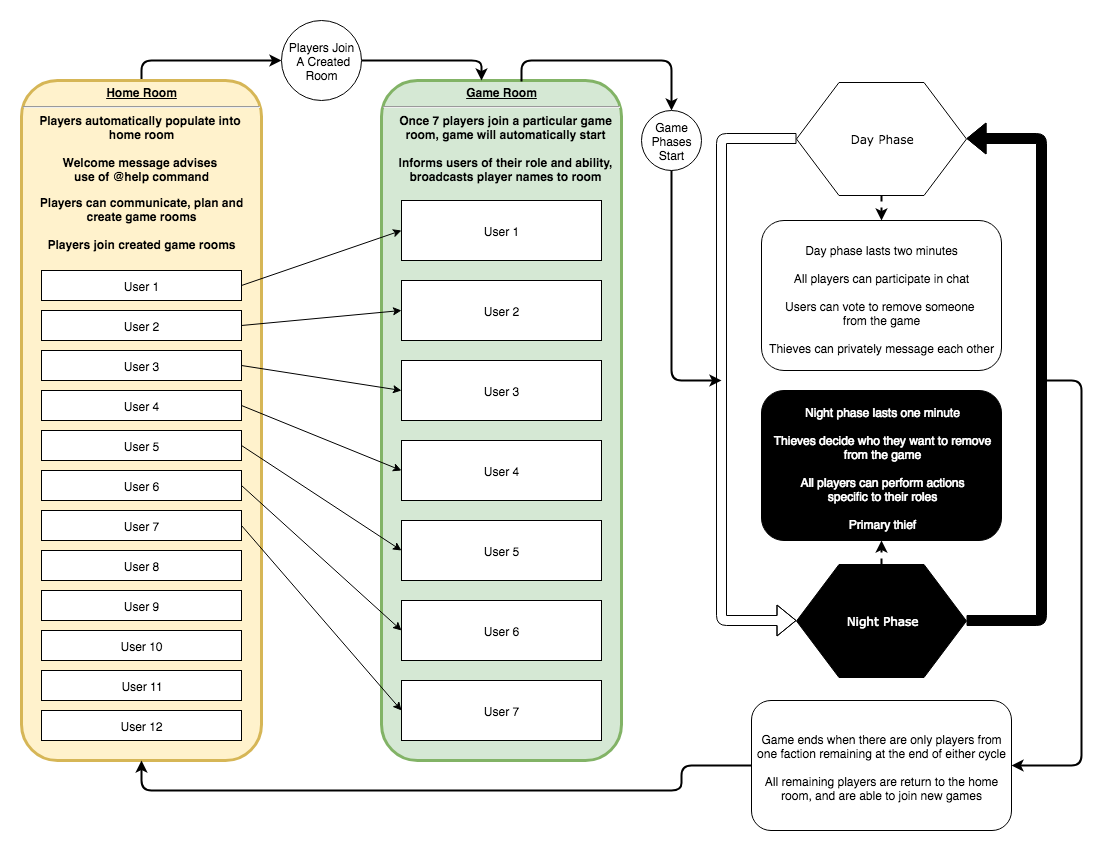
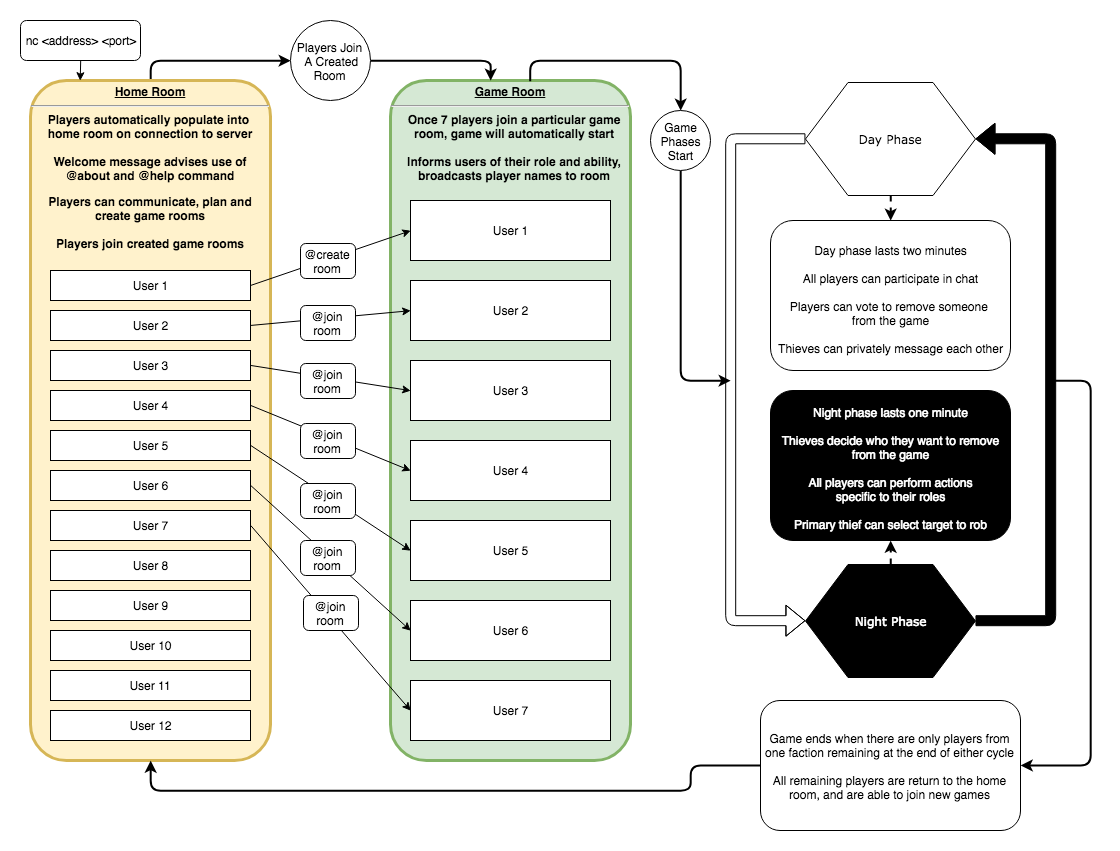
readme high-level image update, added code blocks to illustrate channel broadcasts of general gameflow, added roles, added commands

diff --git a/README.md b/README.md
@@ -9,13 +9,11 @@
 
 ***
 ## Overview
-This application is an variant and implementation of a popular social game known as Mafia. Users are able to create and store profiles through the use of a `MongoDB` database, and using these profiles, gain access to rooms of up to 7 players. There are multiple roles that will be randomly assigned to each user in a particular session. Those roles have two possible affiliations: the `town` and the `thieves`. As one may be able to guess, there are different win conditions for these two affiliations. As members of the `town`, the goal is to identify and oust the `thieves` from the game through daily voting sessions.
+This application is an variant and CLI (command line interface) implementation of a popular social game known as Mafia. There are multiple roles that will be randomly assigned to each user in a particular session. Those roles have two possible affiliations: the `town` and the `thieves`. As one may be able to guess, there are different win conditions for these two affiliations. As members of the `town`, the goal is to identify and oust the `thieves` from the game through daily voting sessions.
 
-The game has two phases, day and night. During the day phase all users may communicate through a TCP server, providing any information they find helpful (or harmful) to the identification of the `thieves`. Before the night phase begins, every user can cast a vote on who they believe are affiliated with the `thieves`. The user with the largest amount of votes will be cast out of town. During the night phase, the `thieves` are able to speak with one another and vote on who they want to rob, driving them out of town. Each role has their own unique action they are able to take during the night phase. Upon daybreak, the user that was robbed will be removed from the game, and the result of some additional interactions that _may_ have occurred will be broadcast to the entire group.
+The game has two phases, day and night. During the day phase all users may communicate through a TCP server, providing any information they find helpful (or harmful) to the identification of the `thieves`. Before the night phase begins, every user can cast a vote on who they believe are affiliated with the `thieves`. The user with the largest amount of votes will be cast out of town. During the night phase, the `thieves` are able to speak with one another and vote on who they want to rob, driving them out of town. Each role has their own unique action they are able to take during the night phase. 
 
-If there are no town members remaining at the start of either phase, the `thieves` will have won the game, and visa versa.
-
-![high-level](./img/high-level.png)
+Upon daybreak, the user that was robbed will be removed from the game, and the result of some additional interactions that _may_ have occurred will be broadcast to the entire group. If there are no town members remaining at the start of either phase, the `thieves` will have won the game, and visa versa.
 
 ***
 ## Getting Started
@@ -25,7 +23,7 @@ After those packages have installed, you can run `npm test` to explore the inclu
 
 <!-- Downloading and installing `MongoDB` (see links below) and entering the command `npm run start-db` will initiate the database required for complete functionality in storing records of game sessions, and gathering statistics for specific user profiles. -->
 
-**NOTE**: If you`d rather just visit the deployed site instead of downloading and hosting off your local machine, visit <[Game of Thieves](gameofthieves.com)>. 
+**NOTE**: If you`d rather just visit the deployed site instead of downloading and hosting off your local machine, visit [Game of Thieves](gameofthieves.com) at gameofthieves.com. 
 
 Using your command line, you can connect to the server using the following commands:
 ```
@@ -41,7 +39,20 @@ telnet <IP ADDRESS OF SERVER PC> <PORT>
 /* Telnet if visiting hosted URL */
 telnet gameofthieves.com <PORT>
 ```
-
+Upon succuessful connection to the server as a user, the terminal window welcoming screen will look just like this:
+```
+    ____                               __   _____ _     _                       
+   / ___| __ _ _ __ ___   ___    ___  / _| |_   _| |__ (_) _____   _____  ___   
+  | |  _ / _` | '_ ` _ \ / _ \  / _ \| |_    | | | '_ \| |/ _ \ \ / / _ \/ __|  
+  | |_| | (_| | | | | | |  __/ | (_) |  _|   | | | | | | |  __/\ V /  __/\__ \  
+   \____|\__,_|_| |_| |_|\___|  \___/|_|     |_| |_| |_|_|\___| \_/ \___||___/  
+                                                                                
+ __________________________________________
+/         Welcome,  <Your Username>!       \
+| Use @about to read about game mechanics. |
+\ Type @help to see a list of commands.    /
+ ------------------------------------------
+```
 <!-- You can make a HTTP `POST` request using `HTTPie`, `Postman`, or a comparable tool to create a profile. This request will need to include `username`, `password`, and `email` properties all in the form of strings. With `HTTPie`, your request should look like:
 ```
 /* local machine */
@@ -63,15 +74,158 @@ If you are using `Postman`, it's a little more complicated. After installing `Po
 
 ***
 ## Description
+### Game Flow
+![high-level](./img/high-level.png)
+
+Upon successful creation and filling of a game room with 7 users, all users will be broadcast a 'game start' message that tells the user their role, their alignment based off that role, the current day and phase, as well as
+```
+    ____                        ____  _             _    
+   / ___| __ _ _ __ ___   ___  / ___|| |_ __ _ _ __| |_  
+  | |  _ / _  | '_   _ \ / _ \ \___ \| __/ _  | '__| __| 
+  | |_| | (_| | | | | | |  __/  ___) | || (_| | |  | |_  
+   \____|\__,_|_| |_| |_|\___| |____/ \__\__,_|_|   \__| 
+
+ ______________________________________________________________________
+/ <Username>, your role is <role>, alignment: <town || thieves>        \
+| [ DAY 0, Night PHASE ] Use your night actions now.                   |
+|                                                                      |
+|                 Players (7):                                         |
+\ <User 1>, <User 2>, <User 3>, <User 4>, <User 5>, <User 6>, <User 7> /
+ ----------------------------------------------------------------------
+```
+Upon entering the day phase, all users in the game will be broadcast a message summarizing any public events that occurred overnight. If nobody was robbed, the message will look like this:
+
+```
+ ______________________________________________________________________
+/ NEW PHASE: day <number>, day phase                                   \
+|                                                                      |
+| No one was robbed!                                                   |
+|                                                                      |
+|                                                                      |
+|                                                                      |
+|         Players Left (7):                                            |
+\ <User 1>, <User 2>, <User 3>, <User 4>, <User 5>, <User 6>, <User 7> /
+ ----------------------------------------------------------------------
+ ```
+Alternatively:
+
+```
+ ____________________________________________________________
+/ NEW PHASE: day <number>, day phase                         \
+|                                                            |
+| <User 7> was robbed and had to leave town.                 |
+| <User 7>'s role was <ROLE>.                                |
+| <User 7>'s last words: <None || All last words>            |
+|                                                            |
+|                                                            |
+|                                                            |
+|         Players Left (6):                                  |
+\ <User 1>, <User 2>, <User 3>, <User 4>, <User 5>, <User 6> /
+ ------------------------------------------------------------
+```
+Upon entering the night phase after the first day phase, if votes were tied or no votes were cast, all users will be broadcast the following message.
+```
+ ____________________________________________________________
+/ NEW PHASE: day <number>, night phase                       \
+|                                                            |
+| <No votes || Vote was tied>, no arrests!                   |
+|                                                            |
+|         Players Left (6):                                  |
+\ <User 1>, <User 2>, <User 3>, <User 4>, <User 5>, <User 6> /
+ ------------------------------------------------------------
+```
+Alternatively:
+```
+ __________________________________________________
+/ NEW PHASE: day <number>, night phase             \
+|                                                  |
+| <User 4> [role: <ROLE>] was arrested.            |
+| <User 4>'s last words: None                      |
+|                                                  |
+|         Players Left (5):                        |
+\ <User 1>, <User 2>, <User 3>, <User 5>, <User 6> /
+ --------------------------------------------------
+```
+
+Once all players with the `thieves` affiliation have been removed from the game, the channel will be broadcast a 'game-over' message:
+```
+   _____                    __        ___           _  
+  |_   _|____      ___ __   \ \      / (_)_ __  ___| | 
+    | |/ _ \ \ /\ / / '_ \   \ \ /\ / /| | '_ \/ __| | 
+    | | (_) \ V  V /| | | |   \ V  V / | | | | \__ \_| 
+    |_|\___/ \_/\_/ |_| |_|    \_/\_/  |_|_| |_|___(_) 
+                                                       
+ _________________________________________________________________
+< Thank you for playing! You will be redirected to the home room. >
+ -----------------------------------------------------------------
+```
+Alternatively if no `town` affiliated players remain:
+```
+  _____ _     _                      __        ___       _  
+ |_   _| |__ (_) _____   _____  ___  \ \      / (_)_ __ | | 
+   | | | '_ \| |/ _ \ \ / / _ \/ __|  \ \ /\ / /| | '_ \| | 
+   | | | | | | |  __/\ V /  __/\__ \   \ V  V / | | | | |_| 
+   |_| |_| |_|_|\___| \_/ \___||___/    \_/\_/  |_|_| |_(_) 
+
+ _________________________________________________________________
+< Thank you for playing! You will be redirected to the home room. >
+ -----------------------------------------------------------------
+```
+
+
 
 ### Roles
 `roles.js` in the `model/` directory is home to the possible random role assignments to every user in a game session. Each nested object has `name`, `alignment`, and `action` properties.
 * `name` refers to the role name, such as cop, jailor, or thief.
-* `order` is a visual and functional reminder .
-* 
-* 
+* `alignment` determines the alignemtn that each role belongs to, and the win condition of each player.
+* `action` is a function available to each role, which determines the target of their nightly action and returns a success message to the user when they properly enter the `@action <target>` command.
+
+There are currently 7 roles in the game, and more can be added as desired (over 30 roles in some Mafia variants). These roles are:
+* Cop
+* Creeper
+* Dentist
+* Jailor
+* Locksmith
+* Thief
+* Thief Recruiter
 
 ### Commands
+#### Game Commands
+`@about` Describes the basic game mechanics to users to help those unfamiliar udnerstand the flow of the game.
+
+`@create <room>` Creates a game room with a custom name 
+
+`@join <room>` Joins a custom game room.
+
+`@help` Lists all available commands.
+
+`@me` Lists your username, name of current room, and your current role.
+
+`@phase` Lists current day and phase in game (e.g. Day 3, Night Phase).
+
+`@players` Lists all active players in the room.
+
+`@roles` Lists all possible roles.
+
+`@rooms` Lists all active game rooms, in case the creator forgot to mention it to their party.
+
+`@quit` Removes the user from current game and closes connection to the server.
+
+#### Day Phase Only
+`@vote <playername>` Submits a vote for the specified player to be jailed (removed from the game). This command will return this message:
+```
+@vote <target username>
+
+	 ##VOTE: <your username>: <target username>.
+	 Use @votes to see current votes for the day.
+```
+
+`@votes` Shows current vote tallies and players they belong to.
+
+#### Night Phase Only
+`@action <playername>` Submits an action to be performed on the specified player. Returns a message to the user upon successful registratio of the action.
+
+`@lastwords <journal entry here>` Saves a journal of whatever follows the `@lastwords` command to be broadcast to other users if they are removed from the game either by the theif or by being voted out. Gives users the ability to record what they did at night, what their role was, and anything important they feel should be shared.
 
 ***
 ## Data Flow
